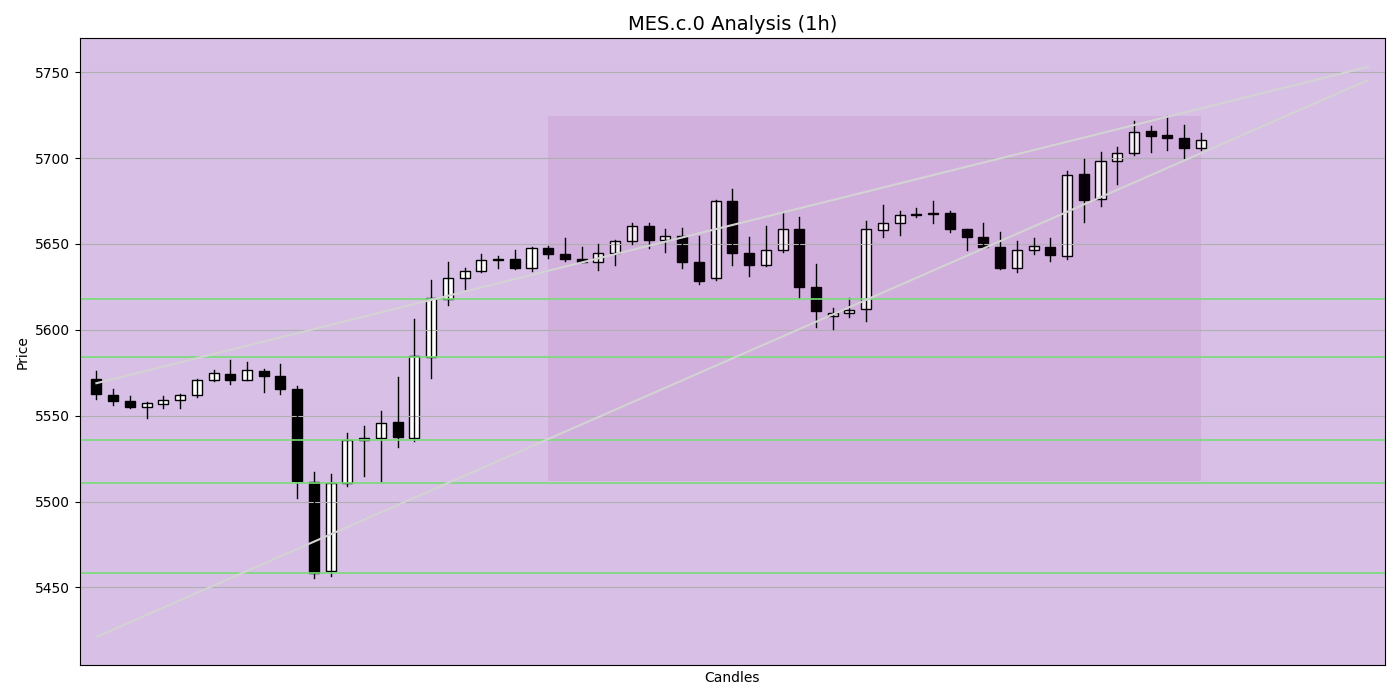
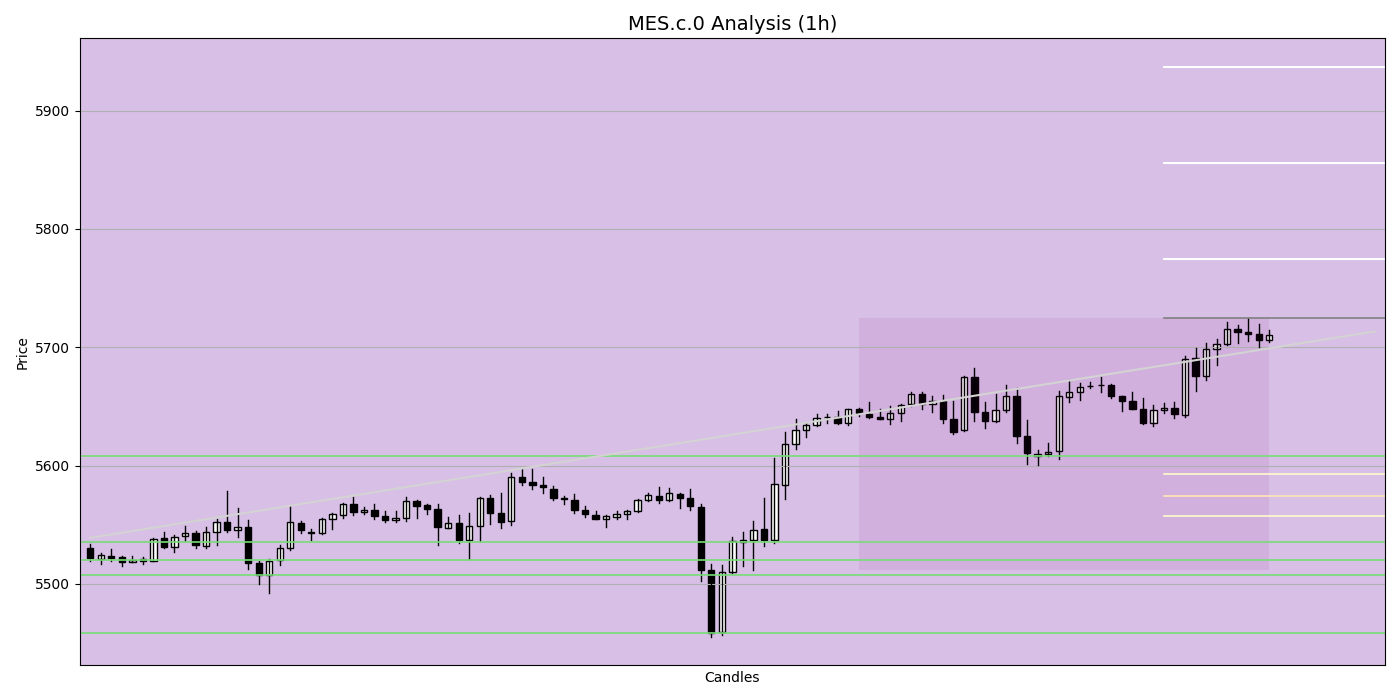
🚀 IRZ 1.0 Fib Visuals + Multi-Asset Telegram Support
- Plot 1.0 Fib level as dashed white line on chart (visual only)
- Do not include 1.0 in report text or IRZ summary
- Improved Telegram bot to support multi-symbol & multi-timeframe input
- Cleaner parsing of /report args
- Added support filtering for significant support/resistance levels
- General parsing and reporting improvements

diff --git a/core/support_resistance.py b/core/support_resistance.py
@@ -1,35 +1,87 @@
-# kawaiitrader/core/support_resistance.py
-
 import pandas as pd
+import numpy as np
 
-def detect_support_resistance(df: pd.DataFrame, window: int = 20, tolerance: float = 0.002):
+def detect_support_resistance(
+    df: pd.DataFrame,
+    window: int = 20,
+    tolerance: float = 0.002,
+    min_bounces: int = 2,
+    min_reversal_atr: float = 1.5,
+    use_volume: bool = True
+):
     """
-    Identifies support and resistance levels using candle body closes over a rolling window.
-    
-    Args:
-        df (pd.DataFrame): OHLCV data with 'close' column.
-        window (int): Number of bars to use in rolling window.
-        tolerance (float): Minimum % difference to separate levels.
+    Detects high-confidence support/resistance zones based on:
+    - Wick + body bounce filtering
+    - ATR-based reversal strength
+    - Optional volume spike confirmation
+    - Clustering logic to reduce noise
 
     Returns:
-        (support_levels, resistance_levels): Two lists of float levels.
+        (support_levels, resistance_levels): Cleaned key price levels
     """
-    body_highs = df[['open', 'close']].max(axis=1)
-    body_lows = df[['open', 'close']].min(axis=1)
+    highs = df["high"]
+    lows = df["low"]
+    closes = df["close"]
+    opens = df["open"]
+    volumes = df["volume"]
 
-    supports = []
-    resistances = []
+    atr = (highs - lows).rolling(window=14).mean()
+
+    potential_supports = []
+    potential_resistances = []
 
     for i in range(window, len(df)):
-        range_slice = df.iloc[i - window:i]
-        local_high = range_slice[['open', 'close']].max(axis=1).max()
-        local_low = range_slice[['open', 'close']].min(axis=1).min()
+        slice_df = df.iloc[i - window:i]
+        current_atr = atr.iloc[i]
+        level_high = slice_df[['open', 'close']].max(axis=1).max()
+        level_low = slice_df[['open', 'close']].min(axis=1).min()
 
-        # Avoid adding levels too close to existing ones
-        if not any(abs(local_high - r) / r < tolerance for r in resistances):
-            resistances.append(round(local_high, 2))
+        # -- Filter: Wick touches and reversal bounce from LOW --
+        support_bounces = 0
+        support_body_rejected = False
+        for j in range(i - window, i):
+            if abs(df["low"].iloc[j] - level_low) / level_low < tolerance:
+                support_bounces += 1
+                if df["close"].iloc[j] > df["open"].iloc[j]:  # body rejection upward
+                    support_body_rejected = True
 
-        if not any(abs(local_low - s) / s < tolerance for s in supports):
-            supports.append(round(local_low, 2))
+        reversed_up = (df["close"].iloc[i] - level_low) > (current_atr * min_reversal_atr)
 
-    return supports, resistances
+        volume_ok = True
+        if use_volume:
+            local_vol = volumes.iloc[i - window:i]
+            volume_ok = volumes.iloc[i] > local_vol.mean() * 1.5
+
+        if support_bounces >= min_bounces and support_body_rejected and reversed_up and volume_ok:
+            potential_supports.append(round(level_low, 2))
+
+        # -- Filter: Wick touches and reversal bounce from HIGH --
+        resistance_bounces = 0
+        resistance_body_rejected = False
+        for j in range(i - window, i):
+            if abs(df["high"].iloc[j] - level_high) / level_high < tolerance:
+                resistance_bounces += 1
+                if df["close"].iloc[j] < df["open"].iloc[j]:  # body rejection downward
+                    resistance_body_rejected = True
+
+        reversed_down = (level_high - df["close"].iloc[i]) > (current_atr * min_reversal_atr)
+
+        volume_ok = True
+        if use_volume:
+            local_vol = volumes.iloc[i - window:i]
+            volume_ok = volumes.iloc[i] > local_vol.mean() * 1.5
+
+        if resistance_bounces >= min_bounces and resistance_body_rejected and reversed_down and volume_ok:
+            potential_resistances.append(round(level_high, 2))
+
+    def cluster(levels):
+        clustered = []
+        for level in sorted(set(levels)):
+            if not clustered or all(abs(level - x) / x > tolerance for x in clustered):
+                clustered.append(level)
+        return clustered
+
+    support_levels = cluster(potential_supports)
+    resistance_levels = cluster(potential_resistances)
+
+    return support_levels, resistance_levels

diff --git a/core/irz_fib.py b/core/irz_fib.py
@@ -4,13 +4,11 @@ def calculate_irz_projection(range_low, range_high, manipulation_direction):
     try:
         # Reverse the projection direction — project *against* the manipulation
         if manipulation_direction == "down":
-            # Price broke down and came back = bullish reversal = project upward
             fib_start = range_high
             fib_end = range_low
             anchor = range_high
             projection_direction = "up"
         elif manipulation_direction == "up":
-            # Price broke up and came back = bearish reversal = project downward
             fib_start = range_low
             fib_end = range_high
             anchor = range_low
@@ -24,7 +22,8 @@ def calculate_irz_projection(range_low, range_high, manipulation_direction):
                 "target_levels": [],
                 "irz_levels": [],
                 "anchor": None,
-                "projection_direction": None
+                "projection_direction": None,
+                "full_levels": {}
             }
 
         diff = fib_end - fib_start
@@ -36,6 +35,7 @@ def calculate_irz_projection(range_low, range_high, manipulation_direction):
             -0.236: fib_start + diff * -0.236,
             -0.618: fib_start + diff * -0.618,
             -1.0: fib_start + diff * -1.0,
+            1.0: fib_start + diff * 1.0,  # ✅ added
         }
 
         retracement_values = [
@@ -73,10 +73,11 @@ Profit Targets → {target_values[0]} / {target_values[1]} / {target_values[2]}"
             "irz_zone": irz_zone,
             "retracements": retracement_objs,
             "targets": target_objs,
-            "target_levels": target_values,  # Legacy fallback
-            "irz_levels": retracement_values,  # Legacy fallback
+            "target_levels": target_values,
+            "irz_levels": retracement_values,
             "anchor": anchor,
-            "projection_direction": projection_direction  # ✅ This line enables bias override
+            "projection_direction": projection_direction,
+            "full_levels": fib_levels  # ✅ added
         }
 
     except Exception as e:
@@ -88,5 +89,6 @@ Profit Targets → {target_values[0]} / {target_values[1]} / {target_values[2]}"
             "target_levels": [],
             "irz_levels": [],
             "anchor": None,
-            "projection_direction": None
+            "projection_direction": None,
+            "full_levels": {}
         }

diff --git a/bot/telegram_interface.py b/bot/telegram_interface.py
@@ -20,29 +20,33 @@ async def report(update: Update, context: ContextTypes.DEFAULT_TYPE):
             await update.message.reply_text("Usage: /report SYMBOL[,SYMBOL2,...] [TIMEFRAME1[,TIMEFRAME2,...]]")
             return
 
-        # Symbols (comma-separated)
-        raw_symbols = args[0].split(',')
-        symbols = [resolve_symbol(sym.strip()) for sym in raw_symbols]
+        # ✅ Split args into symbols and timeframes cleanly
+        raw_symbols = [arg for arg in args if not any(char.isdigit() for char in arg)]
+        raw_timeframes = [arg for arg in args if any(char.isdigit() for char in arg)]
 
-        # Timeframes (comma/space-tolerant)
-        timeframes = ['15min']  # default
-        if len(args) > 1:
-            raw_tf = " ".join(args[1:])  # allow "15min, 1h"
-            timeframes = [tf.strip() for tf in raw_tf.split(',') if tf.strip()]
+        symbols = [resolve_symbol(sym.strip().upper()) for group in raw_symbols for sym in group.split(",") if sym.strip()]
+        timeframes = [tf.strip() for group in raw_timeframes for tf in group.split(",") if tf.strip()]
 
-        # Loop through each symbol + timeframe combo
+        if not symbols:
+            await update.message.reply_text("❌ No valid symbols found.")
+            return
+        if not timeframes:
+            timeframes = ['15min']  # default
+
         for symbol in symbols:
             for tf in timeframes:
-                report = run_analysis(symbol, tf)
-                report_text = format_report_markdown(report)
+                await update.message.reply_text(f"🌸 Running report for *{symbol}* @ `{tf}`...", parse_mode="Markdown")
+
+                report_obj = run_analysis(symbol, tf)
+                report_text = format_report_markdown(report_obj)
 
                 await update.message.reply_markdown_v2(report_text)
 
-                with open(report.chart_path, "rb") as chart_file:
+                with open(report_obj.chart_path, "rb") as chart_file:
                     await context.bot.send_photo(chat_id=update.effective_chat.id, photo=chart_file)
 
     except Exception as e:
-        await update.message.reply_text(f"Error: {e}")
+        await update.message.reply_text(f"❌ Error: {e}")
 
 if __name__ == "__main__":
     if not asyncio.get_event_loop_policy().get_event_loop().is_running():

diff --git a/data/databento_client.py b/data/databento_client.py
@@ -34,7 +34,11 @@ TIMEFRAME_MAP = {
 
 def get_dynamic_lookback(timeframe: str, target_candles: int = 80) -> int:
     seconds = TIMEFRAME_SECONDS.get(timeframe)
-    return math.ceil((target_candles * seconds) / 86400) if seconds else 2
+    if not seconds:
+        return 2
+    if timeframe == "1d":
+        return math.ceil((target_candles / 5) * 7)
+    return math.ceil((target_candles * seconds) / 86400)
 
 
 def is_weekend(dt: datetime) -> bool:
@@ -46,9 +50,6 @@ def fetch_ohlcv(symbol: str, timeframe: str = "15min", lookback_days: int = None
 
     try:
         symbol = resolve_symbol_alias(symbol)
-        if symbol.endswith(".c.0"):
-            symbol = symbol.split(".")[0]
-
         now = datetime.now(timezone.utc).replace(second=0, microsecond=0)
         minute_mod = now.minute % 15
         aligned_now = now - timedelta(minutes=minute_mod)
@@ -56,19 +57,21 @@ def fetch_ohlcv(symbol: str, timeframe: str = "15min", lookback_days: int = None
         if end_time > MAX_AVAILABLE_END:
             end_time = MAX_AVAILABLE_END
 
-        # ✅ Weekend lookback patch
-        if is_weekend(now):
+        if is_weekend(now) and lookback_days is None:
             print(f"[Resolver] Weekend detected — extending lookback to 3 days")
             lookback_days = 3
 
         start_time = end_time - timedelta(days=lookback_days or get_dynamic_lookback(timeframe))
 
-        # ✅ Patch: BTC must use GLBX.MDP3
-        if "BTC" in symbol or "/USD" in symbol:
-            dataset = "GLBX.MDP3"
+        # ✅ Detect equity vs futures
+        is_equity = symbol.isalpha() and len(symbol) <= 5
+        if is_equity:
+            dataset = "XNAS.ITCH" if symbol.endswith("Q") or symbol in ["AAPL", "TSLA"] else "XNYS.ITCH"
             stype = "raw_symbol"
         else:
             dataset = "GLBX.MDP3"
+            if symbol.endswith(".c.0"):
+                symbol = symbol.split(".")[0]
             if is_weekend(now):
                 print(f"[Resolver] Weekend detected. Falling back to front-month for {symbol}")
                 fallback_contracts = {

diff --git a/core/analyzer.py b/core/analyzer.py
@@ -1,4 +1,4 @@
-from data.databento_client import fetch_ohlcv
+from data.databento_client import fetch_ohlcv, get_dynamic_lookback
 from core.support_resistance import detect_support_resistance
 from core.trendline_detector import detect_trendline
 from core.range_detector import detect_body_range
@@ -9,10 +9,16 @@ from core.report_types import Report, Target, ManipulationEvent, Retracement
 
 def run_analysis(symbol: str, timeframe: str = "1h") -> Report:
     print(f"[Analyzer] Fetching data for {symbol} on {timeframe}")
-    df = fetch_ohlcv(symbol, timeframe)
+
+    target_candles = 365 if timeframe == "1d" else 120
+    lookback_days = get_dynamic_lookback(timeframe, target_candles=target_candles)
+    df = fetch_ohlcv(symbol, timeframe, lookback_days=lookback_days)
 
     if df is None or df.empty:
         raise ValueError(f"No data returned for {symbol} on {timeframe}")
+
+    if len(df) < 10:
+        print(f"⚠ Only {len(df)} candles returned for {symbol} on {timeframe}")
 
     # 🟦 Support / Resistance
     supports, resistances = detect_support_resistance(df)
@@ -48,11 +54,11 @@ def run_analysis(symbol: str, timeframe: str = "1h") -> Report:
             irz_zone = fib_data.get("irz_zone")
             irz_message = fib_data.get("message")
 
-            for t in fib_data.get("targets", []):
-                targets.append(t)
-
-            for r in fib_data.get("retracements", []):
-                retracements.append(r)
+            if fib_data:
+                for t in fib_data.get("targets", []):
+                    targets.append(t)
+                for r in fib_data.get("retracements", []):
+                    retracements.append(r)
 
         if manipulation["status"] != "clean":
             manipulations.append(ManipulationEvent(

diff --git a/core/visualizer.py b/core/visualizer.py
@@ -4,7 +4,6 @@ import pandas as pd
 import matplotlib.pyplot as plt
 import matplotlib.patches as patches
 
-
 def plot_full_analysis(df, symbol, timeframe, support_levels, resistance_levels, trendlines, fib_data, range_data):
     df = df.copy().tail(300)
     df.index.name = "Date"
@@ -53,6 +52,12 @@ def plot_full_analysis(df, symbol, timeframe, support_levels, resistance_levels,
 
         for level in fib_data["target_levels"]:
             ax.plot([anchor_index, future_index], [level, level], color="white", linestyle="-", linewidth=1.5)
+
+        # ✅ 1.0 Fib level — dashed white
+        if "full_levels" in fib_data and 1.0 in fib_data["full_levels"]:
+            level_1_0 = fib_data["full_levels"][1.0]
+            ax.plot([anchor_index, future_index], [level_1_0, level_1_0],
+                    color="white", linestyle="--", linewidth=1.2)
 
         ax.plot([anchor_index, future_index], [fib_data["anchor"], fib_data["anchor"]],
                 color="gray", linestyle="-", linewidth=1.2)

diff --git a/cli/kawaii_cli.py b/cli/kawaii_cli.py
@@ -9,8 +9,12 @@ def main():
         print("Usage: python3 main.py <symbol(s)> <timeframe(s)>")
         return
 
-    symbols = [arg for arg in args if not any(char.isdigit() for char in arg)]
-    timeframes = [arg for arg in args if any(char.isdigit() for char in arg)]
+    # ✅ Minimal edit: expand comma-separated inputs
+    raw_symbols = [arg for arg in args if not any(char.isdigit() for char in arg)]
+    raw_timeframes = [arg for arg in args if any(char.isdigit() for char in arg)]
+
+    symbols = [s.strip().upper() for arg in raw_symbols for s in arg.split(",")]
+    timeframes = [t.strip() for arg in raw_timeframes for t in arg.split(",")]
 
     if not symbols or not timeframes:
         print("Error: Please specify both symbol(s) and timeframe(s)")
